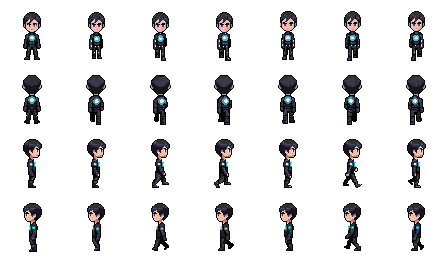
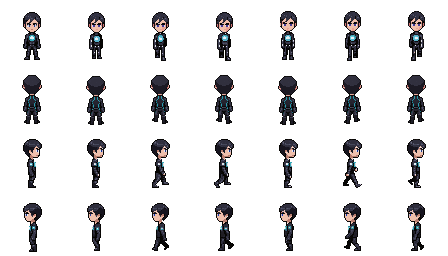
Fix back views of hero and guardian-suit outfits
The north standing pose of the male hero outfit showed the chest instead of
the red cape, and both guardian suits showed the glowing chest core from
behind. Redraw those back views from the existing art (originals kept) and
build their north walk from the corrected pose.

diff --git a/docs/ART_GUIDE.md b/docs/ART_GUIDE.md
@@ -586,6 +586,7 @@ retro pixel art comic panel illustration, cinematic composition, chunky readable
 **แก้ภายหลัง (รอบที่ 7):**
 - ภาพเนื้อเรื่องที่เจน 6 ภาพ (ST-02, ST-03, ST-05, ST-06, ST-08, ST-09) มีพี่บิตหรือการ์เดียนหน้าตาไม่ตรงกับในเกม แก้ด้วย `edit_image_pro_flash` แบบ `method: "reference"` โดยใช้ CH-02 (พี่บิต) และ BT-00 (การ์เดียน) เป็นภาพอ้างอิง เครื่องมือแก้ได้ไม่เกิน 256×256 จึงตัดเฉพาะส่วนที่มีหุ่น แก้ แล้ววางกลับ ภาพก่อนแก้เก็บเป็น `original.png` รายการแก้อยู่ใน `edits` ของ `source.json`
 - แอนิเมชันเดินทิศเหนือของ 6 ชุด (CH-01, CH-07, CH-15, CH-16, CH-33, CH-35) หันตัวกลับมาด้านหน้ากลางทาง (เห็นเสื้อด้านหน้าหรือผ้าคลุมอยู่ข้างหน้า) ลองเจนใหม่ด้วย `skeleton-v3` แล้วก็ยังหันกลับ จึงสร้างเฟรมเดินทิศเหนือจากท่ายืนทิศเหนือตอน build (`postprocess.synthWalk: ["north"]` ขาซ้ายขวายกสลับกันและตัวยุบขึ้นลง) เฟรมเดิมยังอยู่ใน `walk/`
+- ภาพยืนทิศเหนือของชุดฮีโร่การ์เดียน (ชาย CH-32) และชุดเกราะผู้พิทักษ์ (CH-10, CH-13) เป็นด้านหน้าของชุด (เห็นอกเสื้อหรือแกนเรืองแสงที่อก) แก้เป็นด้านหลังด้วย `edit_image_pro_flash` (ผ้าคลุมแดงคลุมหลัง / หลังชุดเรียบไม่มีแกน) ภาพเดิมคือ `north-original.png` แล้วสร้างเฟรมเดินทิศเหนือจากภาพที่แก้ (`synthWalk`)
 - ฉากหลังของเรื่องราว NPC บางภาพมีป้ายเล็กที่มีขีดคล้ายตัวอักษร ระบายเป็นแผ่นเรียบตอน build (`postprocess.patches`)
 
 **หุ่นการ์เดียนที่ใส่เกราะและถืออาวุธ (GD-01..24)** เกราะ 4 แบบ × อาวุธ 6 แบบ ไม่ได้เจนใหม่ทั้งตัว แต่แก้จากภาพหุ่นตัวเดิม (BT-00) ด้วย `edit_image_pro_flash` (6 generation ต่อภาพ) หุ่นจึงเป็นตัวเดียวกันทุกภาพ และอาวุธถูกกำไว้ในมือจริง ไม่ใช่ภาพอาวุธแปะทับ ขั้นแรกใส่เกราะ 3 แบบ และอาวุธ 5 แบบบนหุ่นเปล่า ขั้นที่สองใส่อาวุธบนหุ่นที่ใส่เกราะแล้ว โดยใช้ภาพอาวุธจากขั้นแรกเป็นภาพอ้างอิง (`method: reference`) อาวุธจึงหน้าตาเหมือนกันทุกเกราะ ฉากต่อสู้และแท่นการ์เดียนในโรงเก็บหุ่นใช้ภาพชุดนี้ (สคริปต์ที่ใช้เจนบันทึกไว้ใน `source.json` ของแต่ละชิ้น)
